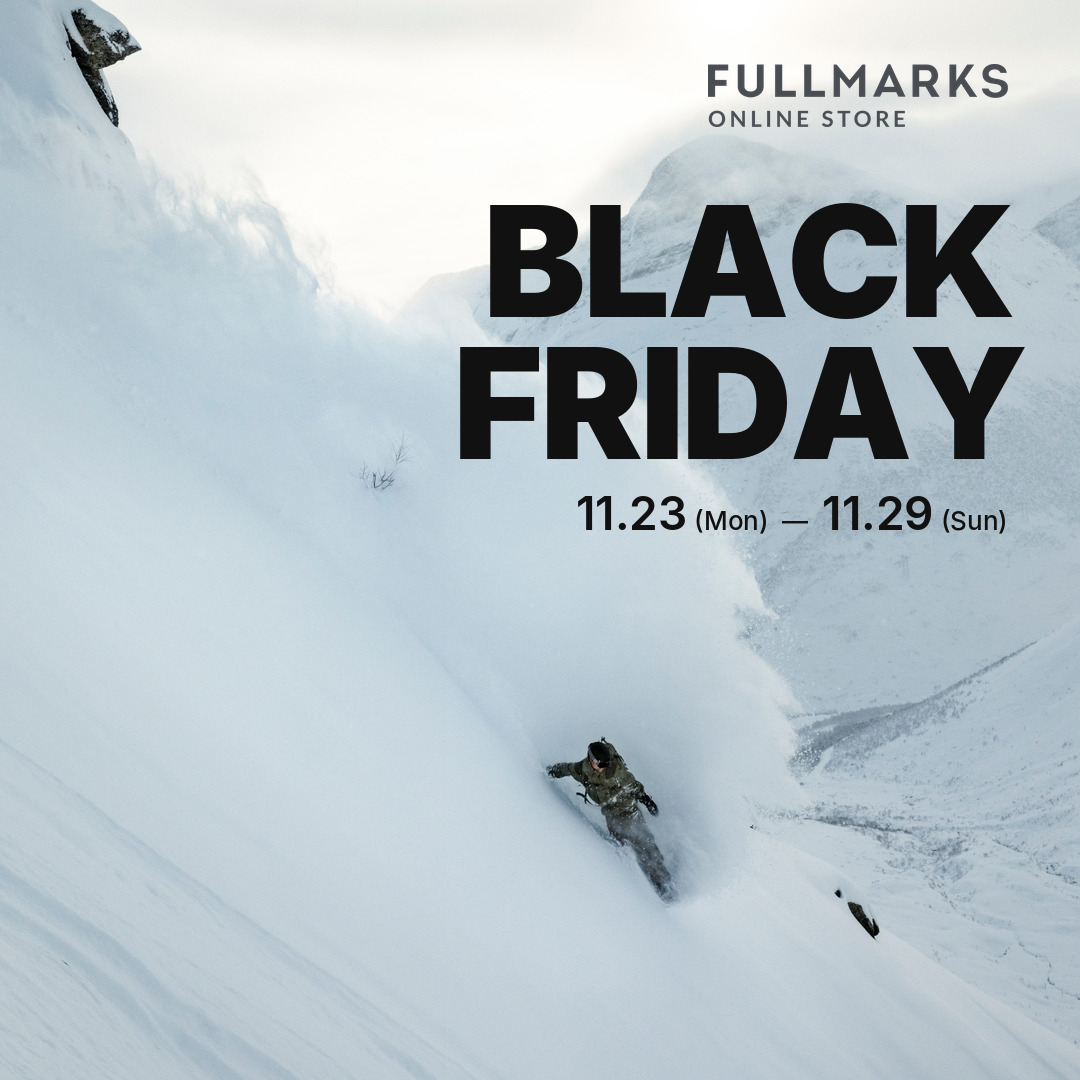
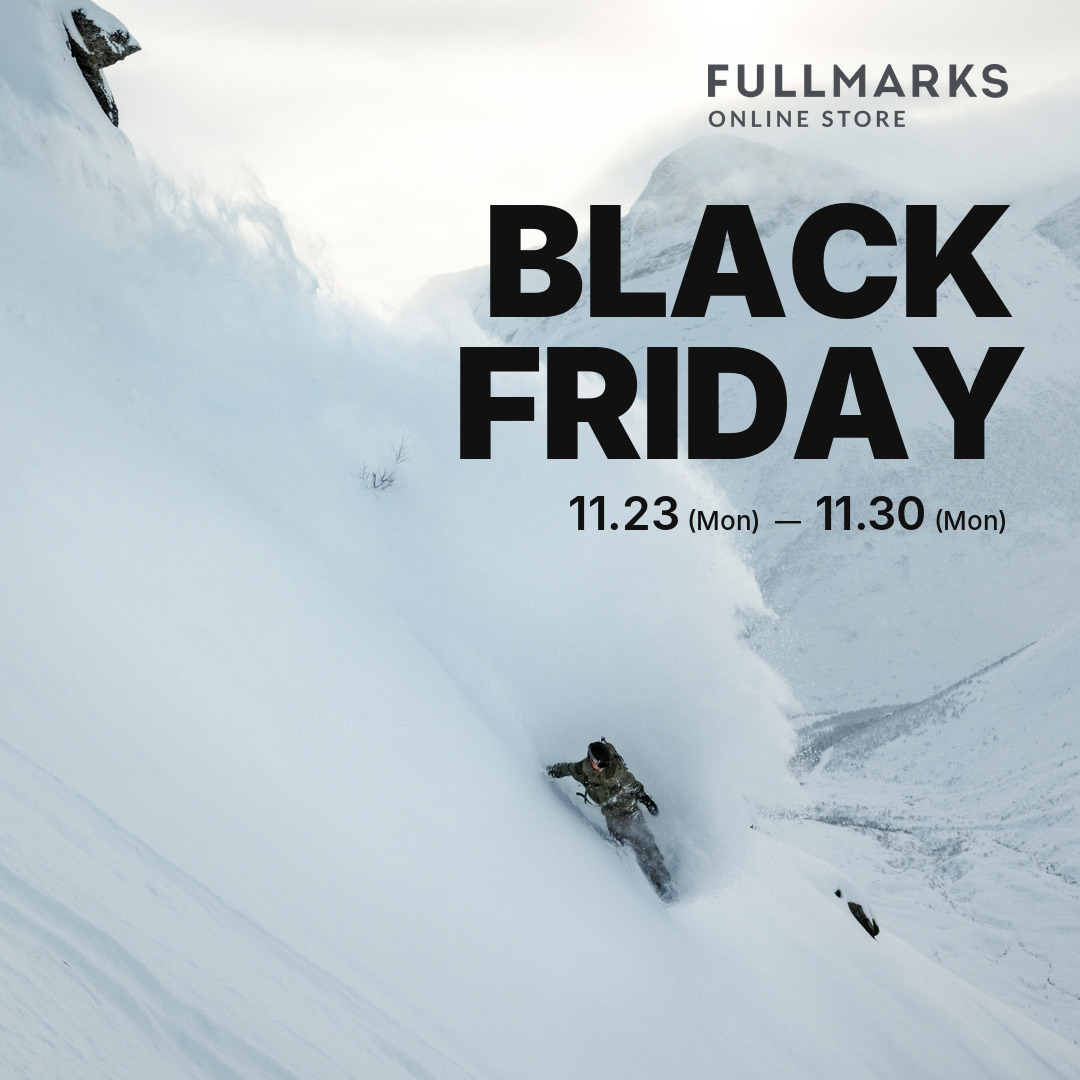
ブラックフライデーの終了日を 11/30 に変更（画像・下書き）
Claude-Session: https://claude.ai/code/session_01EFkMa7pBd48FUqtUrcDcW8

Changed region(s): [[0.5194, 0.4583, 0.7028, 0.4889], [0.7639, 0.4583, 0.9167, 0.4889]]

diff --git a/scripts/build_bf2026_images.py b/scripts/build_bf2026_images.py
@@ -20,7 +20,7 @@ F_TITLE = INTER + "Inter-Black.otf"
 F_DATE = INTER + "Inter-SemiBold.otf"
 F_DOW = INTER + "Inter-Medium.otf"
 SIZES = {"1080x1080": (1080, 1080), "1080x1350": (1080, 1350), "1080x1920": (1080, 1920)}
-DATE = ("11.23", "(Mon)", "11.29", "(Sun)")
+DATE = ("11.23", "(Mon)", "11.30", "(Mon)")
 
 
 def to_srgb(im: Image.Image) -> Image.Image:

diff --git a/CLAUDE.md b/CLAUDE.md
@@ -669,3 +669,6 @@ FULLMARKS（fullmarksstore.jp）の広告運用ツール。Meta/Google広告のA
 - 【2026-11-10 00:17 JST 予約どおり】Meta カタログ CVS フルマークス 52598939062735 を 6,000→7,000円/日（読み直しで確認）。PU A/B 52615235857935 は stop_time（11/9 23:50）後も ACTIVE 表示のため PAUSED。
   PU A/B 最終（10/26〜11/9）: A 3枚カルーセル 14,117円・リンククリック303（CTR 3.1%）・ページ閲覧306・カート1・購入1（金額0）/
   B 2枚セット＋1枚 14,119円・348（3.5%）・329・カート2・購入6・96,980円（6.9）。→ 見せ方は B が良い。PU を続けるかは未定（ユーザー判断）。
+- 【2026-11-10 ユーザー指示「ブラックフライデー終わりの日を11/30にして」】BF は **11/23（月）〜11/30（月）の8日間**。画像（A・B 両案、文字「11.23 (Mon) — 11.30 (Mon)」）を再生成、
+  copy/blackfriday2026_meta.json（見出し「BLACK FRIDAY｜11/30（月）まで」、10万を 7,000×3・8,000・14,000・16,000・18,000・23,000、11/30 23:50 停止）・message・google（コールアウト「BLACK FRIDAY 11/30まで」）を更新。
+  通常運用の1.5倍（11/27〜29）と 11/30 00:05 の戻し予約（trig_01UNNsmK6MLY5VMiVgLAJZMz）は未変更。最終日を含めて 11/30 まで延ばすかはユーザー確認中。
